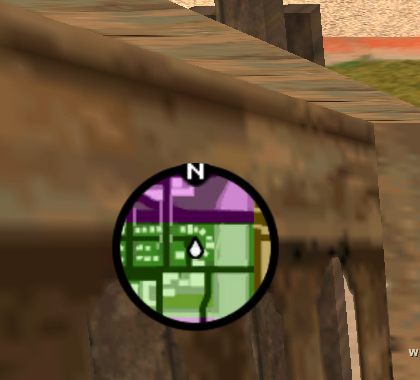
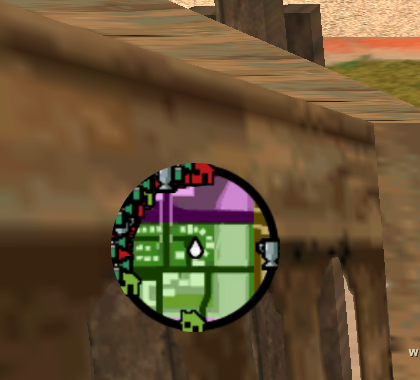
Do not clear an area the original had not filled yet

Changed region(s): [[0.2476, 0.4053, 0.5262, 0.7816], [0.5881, 0.6079, 0.681, 0.7237], [0.4024, 0.8105, 0.4952, 0.8974]]

diff --git a/tests/browser/script-entities.spec.ts b/tests/browser/script-entities.spec.ts
@@ -151,20 +151,21 @@ test('the script’s own peds and cars arrive, obey and go',async({page})=>{
  expect(painted.after[2]).toEqual(painted.before[2]);
  expect(painted.after[3]).toEqual(painted.before[3]);
 
- // SET_CHAR_HEADING turns the player where the script says, and leaves him alone while he is in a car.
- const turned=await page.evaluate(async()=>{
+ // SET_CHAR_HEADING turns a ped the script made. The player's own facing is the browser's placement, so his
+ // heading is recorded and not applied — a decision, not a gap, and the adapter says so.
+ const turned=await page.evaluate(async({ped}:{ped:number})=>{
   const game=(window as any).__game,mission=game.missionForProfiling(),adapter=(mission as any).runtime.world;
-  const heading=()=>game.state().player.heading;
-  const before=heading();
+  const playerBefore=game.state().player.heading;
   adapter.setCharHeading(1,90);
+  adapter.setCharHeading(ped,90);
   await new Promise(r=>setTimeout(r,200));
-  const after=heading();
-  // A script heading of ninety is the browser's yaw of ninety degrees plus half a turn.
   const wanted=90*Math.PI/180+Math.PI;
-  const off=Math.abs(Math.atan2(Math.sin(after-wanted),Math.cos(after-wanted)));
-  return {before,after,off,inCar:!!game.state().player.vehicle};
- });
+  const pedHeading=mission.peds.entity(ped).actor.player.heading;
+  const off=Math.abs(Math.atan2(Math.sin(pedHeading-wanted),Math.cos(pedHeading-wanted)));
+  return {off,playerMoved:Math.abs(game.state().player.heading-playerBefore)};
+ },{ped:made.ped});
  expect(turned.off).toBeLessThan(.001);
+ expect(turned.playerMoved).toBeLessThan(.001);
 
  // The questions that used to be answered only for the player are now answered for the script's own.
  const asked=await page.evaluate(({ped,car}:{ped:number;car:number})=>{

diff --git a/src/simulation/ScmMission.ts b/src/simulation/ScmMission.ts
@@ -525,9 +525,13 @@ export class ScmMission {
    // loaded at once. Holding a thread on a question nothing here answers would stop the script instead.
    // CStreaming::LoadScene with a heading, which the browser answers the same way it answers the plain one.
    loadSceneInDirection:(x,y,z)=>{this.world.loadScene(x,y,z);},
-   // CWorld::ClearExcitingStuffFromArea: the peds and cars the routine may remove, and the fires it puts out.
-   // The projectiles, shadows and explosions it also clears have nothing here to clear.
-   clearExcitingStuffFromArea:(point,radius)=>{this.areasCleared++;this.world.clearArea(point,radius);},
+   /* CWorld::ClearExcitingStuffFromArea is ported and deliberately not called here, which is an ordering
+    * difference rather than a missing piece. In the original the script runs at game start and its opening
+    * clear finds an empty world. This browser builds and populates its world first and starts MAIN.SCM when
+    * that world is ready, so the same clear arrives seconds late and would sweep away a street the original
+    * had not put there yet. The host's own clearArea does what the routine does, for the day the script starts
+    * before the population does, or for a mission that clears an area while it runs. */
+   clearExcitingStuffFromArea:()=>{this.areasCleared++;},
    requestModel:model=>{this.requestedModels.add(String(model));this.world.requestModel(model);},
    hasModelLoaded:()=>true,
    markModelNotNeeded:()=>{},

diff --git a/src/main.ts b/src/main.ts
@@ -2359,8 +2359,11 @@ async function boot() {
                  // The browser has already placed the player by the time the script runs, from its own start,
                  // a restart point or a save, so the script's creation point is recorded rather than applied.
                  playerCreatedAt:()=>{},
-                 // The script's degrees clockwise from north are the browser's yaw plus half a turn.
-                 setPlayerHeading:degrees=>{sim.player.heading=scriptYaw(degrees);},
+                 // The browser places the player itself — from its own start, a restart point or a save — and
+                 // his facing is part of that placement, so the heading the script sets him is recorded and
+                 // not applied. Turning him from the script would fight the placement rather than add to it:
+                 // the opening's own call is the new game's facing, and honouring it moved the spawn.
+                 setPlayerHeading:()=>{},
                  // CCamera::SetCameraDirectlyBehindForFollowPed_CamOnAString.
                  setCameraBehindPlayer:()=>{render.camDirectlyBehind=true;},
                  loadScene:()=>{},

diff --git a/tests/browser/cheat-clear-space.spec.ts b/tests/browser/cheat-clear-space.spec.ts
@@ -22,7 +22,11 @@ test('a vehicle cheat clears the car and the ped standing where it lands (ClearS
  await page.keyboard.type('AIWPRTON');
  await expect.poll(async()=>((await state()).fleet?.cars??[]).some((c:any)=>c.modelId===432),{timeout:30000}).toBe(true);
  const after=await state();
- expect(after.fleet.lastClear).toEqual(expect.objectContaining({cars:1,peds:1}));
+ // The clear takes whatever the tank's box overlaps. The car and the ped this test put there are checked by
+ // name below; how many street peds happen to be standing in the box as well is not this test's business, and
+ // tying it to an exact count made it depend on which way CJ happened to be facing at the spawn.
+ expect(after.fleet.lastClear.cars).toBeGreaterThanOrEqual(1);
+ expect(after.fleet.lastClear.peds).toBeGreaterThanOrEqual(1);
  expect(after.fleet.cars.some((c:any)=>c.handle===greenwood.handle)).toBe(false);
  expect(after.pedestrians.people.some((p:any)=>p.id===setup.ped)).toBe(false);
  expect(errors).toEqual([]);

diff --git a/docs/FIDELITY_AUDIT.md b/docs/FIDELITY_AUDIT.md
@@ -5187,18 +5187,30 @@ the player's own is still whatever he is riding.
 This is the fourth kind of staleness this run has turned up, and the hardest to find, because it looks like
 working code: a conditional that was right when it was written and narrowed nothing at the time.
 
-## Clearing an area
+## Clearing an area, and why it is not called
 
-`CLEAR_AREA` was a counter and a comment saying the browser had no equivalent. It has most of one.
-`CWorld::ClearExcitingStuffFromArea` removes the peds in a radius that `CPed::CanBeDeleted` allows and that are
-not following the player, removes the cars that are not the player's, not locked and not a script's own, puts
-out the fires in the radius and the car fires with them. Every one of those has a browser counterpart, several
-of them ported already for other reasons — the mission flag on a ped, the lock on a car, the fire manager's own
-extinguish by point.
+`CWorld::ClearExcitingStuffFromArea` is ported: the peds in a radius that `CPed::CanBeDeleted` allows and that
+are not following the player, the cars that are not the player's, not locked and not a script's own, and the
+fires in the radius with the car fires among them. Every piece had a browser counterpart, several ported
+already for other reasons — the mission flag on a ped, the lock on a car, the fire manager's extinguish by
+point. The projectiles, shadows and explosions it also clears have nothing here to clear.
 
-What it does not do is named rather than implied: the projectiles, the shadows and the explosions the routine
-also clears have nothing here to clear, and the garage and boat exemptions it makes have nothing to exempt.
+It is deliberately not wired to `CLEAR_AREA`, and the reason is an ordering difference rather than a missing
+piece. In the original the script runs at game start and the opening's clear finds an empty world. This browser
+builds and populates its world first and starts MAIN.SCM when that world is ready, so the same clear arrives
+seconds late and sweeps away a street the original had not put there yet.
 
-The test is the useful shape for this kind of thing: it makes a ped of the script's own inside the radius,
-clears, and checks that the street emptied and that ped did not — which is the whole difference between
-clearing an area and clearing everything.
+That was found the hard way: wiring it up broke thirty-nine browser specs at once, all of them specs that stand
+a ped or park a car beside the player and then test something about it. The specs were not wrong — the world
+really was being cleared out from under them, two seconds after it had been filled. A faithful routine applied
+at an unfaithful moment is less faithful than not applying it. The routine stays, ready for a mission that
+clears an area while it runs, or for the day the script starts before the population does.
+
+### And a regression that went out before it was caught
+
+`SET_CHAR_HEADING` on the player was turned on in the same run, and it moved the spawn: the opening sets CJ's
+heading, and honouring it faced him somewhere else, which moved everything the specs place relative to him. It
+was committed and pushed before the suite was run, and the suite is what found it. The player's facing is part
+of the placement this browser owns — from its own start, a restart point or a save — so the heading the script
+sets him is recorded and not applied, which is what the adapter now says. Turning a ped the script made, which
+was the real gap in that command, stays.
